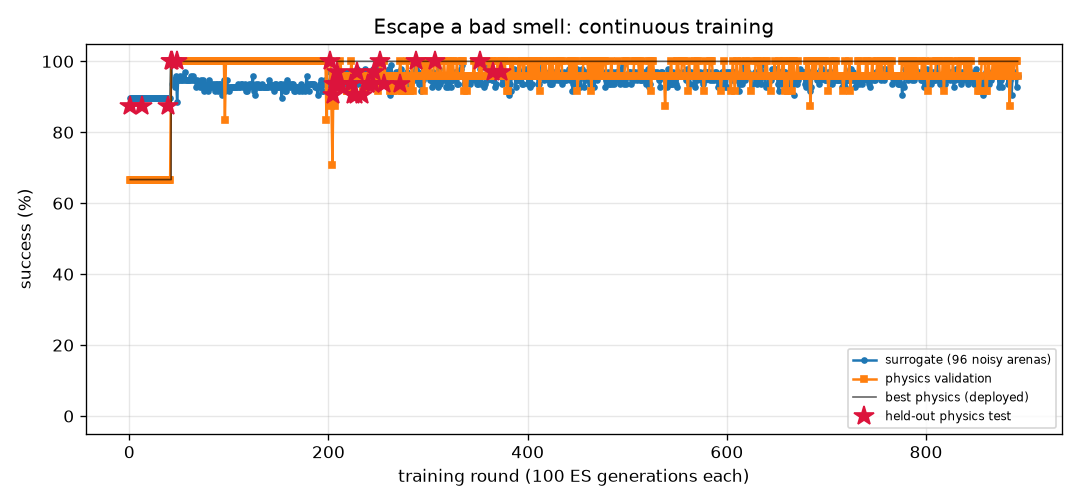
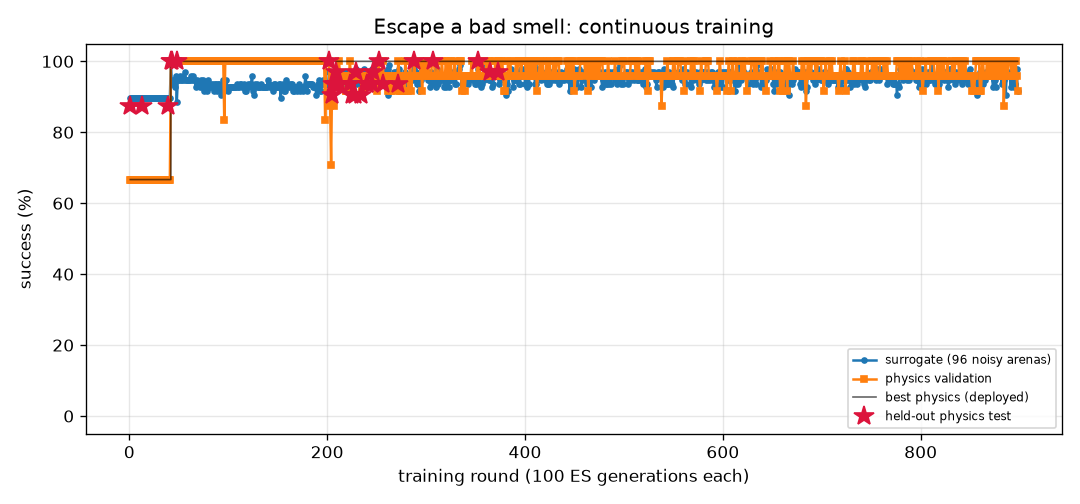
FlyLab: continuous training progress
- walk_forward: optimal, physics val 100% of 24, round 367
- turn: optimal, physics val 100% of 24, round 1013
- goto: optimal, physics val 100% of 24, round 287
- odor_seek: optimal, physics val 100% of 24, round 235
- odor_avoid: optimal, physics val 100% of 24, round 898
- light_seek: optimal, physics val 100% of 24, round 487
- light_avoid: optimal, physics val 100% of 24, round 626

diff --git a/projects/09_flylab/training/odor_avoid/REPORT.md b/projects/09_flylab/training/odor_avoid/REPORT.md
@@ -1,14 +1,14 @@
 # Escape a bad smell (`odor_avoid`) — training report
 
-*Auto-generated by `train_brains.py`, last updated 2026-11-12T00:04:33.*
+*Auto-generated by `train_brains.py`, last updated 2026-11-12T20:07:38.*
 
 ![curve](curve.png)
 
 | | |
 |---|---|
-| rounds | 892 |
-| ES generations | 89200 |
-| physics runs | 18714 |
+| rounds | 898 |
+| ES generations | 89800 |
+| physics runs | 18858 |
 | status | **optimal** |
 | best brain | round 373: physics validation **100%** on 24 arenas, surrogate 97% |
 | held-out physics test | **97%** on 32 unseen arenas (95% CI 84%-99%) (errors: [62.0, 57.4, 62.6, 61.9, 59.0, 61.6, 56.5, 60.7, 31.7, 60.9, 63.1, 57.1, 61.1, 62.1, 61.5, 60.2, 62.2, 55.2, 62.1, 54.2, 61.3, 62.0, 58.0, 61.9, 59.8, 56.5, 56.3, 56.4, 56.3, 57.7, 61.9, 32.4]) |
@@ -17,12 +17,6 @@ Physics error per arena: mm gained away from source (> 6 without first approachi
 
 | round | level | gens | sigma | surrogate | physics val | val errors | test | note |
 |---:|---:|---:|---:|---:|---:|---|---:|---|
-| 853 | 3 | 85300 | 0.026 | 95% | 96% | [59.2, 54.5, 55.0, 56.2, 53.6, 24.9, 59.7, 56.7, 60.0, 9.8, 51.0, 59.5, 47.8, 53.9, 0.7, 36.7, 59.3, 20.2, 48.7, 54.2, 59.7, 41.7, 59.2, 57.6] |  | restart from best |
-| 854 | 3 | 85400 | 0.026 | 96% | 92% | [62.7, 61.0, 56.2, 60.1, 61.9, 42.9, 61.0, 5.1, 61.3, 31.5, 3.5, 61.5, 49.6, 54.4, 36.5, 44.7, 62.2, 36.7, 50.2, 59.1, 62.0, 32.2, 56.5, 57.4] |  |  |
-| 855 | 3 | 85500 | 0.026 | 95% | 96% | [62.7, 59.5, 56.5, 60.1, 60.2, 61.6, 61.6, 35.3, 61.6, 28.1, 29.2, 62.1, 49.1, 54.0, 29.7, 59.8, 61.9, 61.0, 49.7, 57.4, 62.0, 41.0, 59.6, 61.8] |  |  |
-| 856 | 3 | 85600 | 0.027 | 96% | 100% | [63.1, 61.4, 55.9, 59.5, 60.2, 61.6, 61.7, 32.2, 61.3, 59.9, 16.6, 62.3, 50.9, 55.5, 28.9, 61.4, 62.5, 61.3, 50.9, 60.4, 61.9, 43.3, 59.3, 59.4] |  |  |
-| 857 | 3 | 85700 | 0.026 | 91% | 100% | [55.2, 52.8, 58.2, 52.7, 62.9, 62.3, 59.5, 61.8, 58.7, 62.2, 61.9, 61.1, 54.7, 58.0, 51.3, 63.0, 61.8, 62.0, 55.0, 53.2, 61.1, 62.4, 56.3, 60.8] |  | restart from best |
-| 858 | 3 | 85800 | 0.026 | 94% | 100% | [61.0, 56.5, 55.9, 60.9, 37.4, 55.9, 61.5, 23.2, 61.6, 49.3, 39.8, 61.1, 40.5, 53.8, 33.6, 56.3, 61.5, 53.5, 48.6, 58.6, 61.3, 60.5, 60.3, 59.8] |  |  |
 | 859 | 3 | 85900 | 0.028 | 94% | 100% | [60.8, 58.1, 56.0, 58.7, 41.2, 52.2, 61.5, 57.3, 60.5, 57.7, 51.6, 61.3, 9.0, 54.1, 36.3, 61.2, 60.5, 53.0, 49.2, 57.7, 60.3, 37.6, 59.1, 60.6] |  |  |
 | 860 | 3 | 86000 | 0.028 | 97% | 92% | [60.2, 56.2, 52.8, 55.6, 58.8, 58.7, 58.0, 58.3, 58.6, 57.4, 48.6, 59.5, 0.0, 51.4, 33.5, 57.0, 59.1, 58.0, 48.7, 52.5, 58.6, 59.0, 55.4, 59.0] |  |  |
 | 861 | 3 | 86100 | 0.026 | 96% | 92% | [59.2, 52.1, 55.3, 52.0, 58.4, 59.3, 57.3, 53.4, 57.5, 54.6, 46.8, 59.7, 43.1, 53.1, 27.8, 60.2, 59.8, 59.2, 48.1, 51.9, 59.6, 56.6, 52.2, 57.5] |  | restart from best |
@@ -57,3 +51,9 @@ Physics error per arena: mm gained away from source (> 6 without first approachi
 | 890 | 3 | 89000 | 0.026 | 96% | 100% | [63.2, 56.5, 56.4, 61.1, 62.4, 53.2, 60.7, 28.6, 60.9, 34.2, 57.6, 61.9, 50.8, 55.4, 11.7, 62.4, 62.2, 61.6, 54.8, 57.2, 61.9, 45.9, 61.6, 52.8] |  |  |
 | 891 | 3 | 89100 | 0.026 | 93% | 100% | [63.0, 57.9, 56.2, 61.0, 62.5, 62.3, 61.3, 62.2, 61.0, 60.6, 62.1, 62.2, 55.0, 56.7, 51.7, 62.0, 62.7, 61.8, 55.3, 57.3, 62.6, 62.4, 61.4, 62.7] |  |  |
 | 892 | 3 | 89200 | 0.028 | 96% | 96% | [61.9, 60.9, 55.6, 60.9, 61.0, 62.5, 60.7, 61.8, 61.6, 62.3, 62.0, 62.1, 52.3, 55.8, 43.2, 62.3, 61.6, 62.4, 54.7, 59.2, 61.8, 61.8, 61.1, 61.5] |  |  |
+| 893 | 3 | 89300 | 0.026 | 95% | 96% | [62.5, 57.4, 58.7, 60.9, 62.3, 60.8, 61.5, 21.1, 61.4, 47.7, 61.0, 60.8, 54.4, 58.2, 42.5, 62.2, 61.3, 62.0, 54.5, 57.0, 60.6, 51.1, 59.7, 41.7] |  | restart from best |
+| 894 | 3 | 89400 | 0.026 | 93% | 100% | [62.2, 59.2, 56.2, 61.0, 62.3, 60.9, 60.6, 61.1, 61.4, 60.7, 62.0, 61.7, 55.1, 56.2, 51.7, 61.9, 62.0, 61.4, 52.6, 57.2, 61.9, 62.0, 59.4, 61.5] |  |  |
+| 895 | 3 | 89500 | 0.028 | 94% | 96% | [61.8, 56.5, 56.5, 56.5, 59.9, 59.1, 61.0, 34.6, 61.7, 58.2, 58.3, 60.9, 51.4, 55.4, 39.8, 59.8, 61.4, 57.2, 54.4, 58.8, 61.3, 54.9, 59.3, 59.9] |  |  |
+| 896 | 3 | 89600 | 0.028 | 96% | 100% | [60.9, 60.2, 56.0, 56.8, 61.7, 61.3, 60.6, 38.4, 61.5, 47.7, 59.6, 61.7, 54.3, 56.3, 43.2, 60.0, 61.7, 58.9, 54.7, 58.4, 61.4, 59.6, 59.2, 59.3] |  |  |
+| 897 | 3 | 89700 | 0.026 | 98% | 96% | [61.2, 59.0, 56.4, 60.5, 61.1, 62.1, 62.0, 59.5, 61.4, 61.7, 61.7, 61.8, 54.6, 55.9, 43.8, 61.0, 62.0, 61.8, 54.9, 56.8, 61.6, 61.7, 59.1, 61.7] |  | restart from best |
+| 898 | 3 | 89800 | 0.026 | 92% | 92% | [61.6, 56.7, 56.3, 56.5, 60.7, 39.8, 61.9, 1.4, 61.8, 23.5, 58.4, 61.2, 51.7, 55.5, 36.4, 60.8, 61.5, 60.4, 54.8, 56.0, 61.6, 23.4, 56.8, 14.6] |  |  |

diff --git a/projects/09_flylab/training/light_avoid/REPORT.md b/projects/09_flylab/training/light_avoid/REPORT.md
@@ -1,14 +1,14 @@
 # Hide from light (`light_avoid`) — training report
 
-*Auto-generated by `train_brains.py`, last updated 2026-11-12T00:42:23.*
+*Auto-generated by `train_brains.py`, last updated 2026-11-12T20:08:02.*
 
 ![curve](curve.png)
 
 | | |
 |---|---|
-| rounds | 620 |
-| ES generations | 62000 |
-| physics runs | 15152 |
+| rounds | 626 |
+| ES generations | 62600 |
+| physics runs | 15296 |
 | status | **optimal** |
 | best brain | round 159: physics validation **100%** on 24 arenas, surrogate 100% |
 | held-out physics test | **100%** on 32 unseen arenas (95% CI 89%-100%) (errors: [14.4, 56.1, 58.0, 57.9, 57.5, 14.0, 14.4, 56.6, 56.8, 13.3, 14.1, 56.6, 57.6, 13.1, 57.3, 55.9, 57.2, 55.0, 55.2, 53.9, 55.2, 12.4, 53.8, 53.7, 14.1, 13.7, 55.0, 57.8, 56.2, 13.1, 52.8, 56.5]) |
@@ -17,12 +17,6 @@ Physics error per arena: mm gained away from source (> 6 without first approachi
 
 | round | level | gens | sigma | surrogate | physics val | val errors | test | note |
 |---:|---:|---:|---:|---:|---:|---|---:|---|
-| 581 | 3 | 58100 | 0.025 | 97% | 100% | [34.9, 40.9, 40.7, 37.3, 43.3, 39.6, 37.4, 14.5, 38.8, 13.4, 42.2, 43.8, 14.4, 42.4, 40.9, 8.8, 14.2, 42.5, 41.7, 14.4, 8.9, 42.5, 36.4, 41.9] |  |  |
-| 582 | 3 | 58200 | 0.026 | 94% | 96% | [6.2, 52.1, 51.8, 7.3, 51.7, 4.3, 50.3, 14.5, 51.0, 13.3, 49.5, 51.5, 14.4, 51.0, 52.0, 9.0, 14.2, 52.0, 52.4, 14.4, 8.7, 51.3, 50.0, 51.0] |  |  |
-| 583 | 3 | 58300 | 0.028 | 93% | 96% | [6.3, 55.7, 55.8, 7.3, 52.4, 4.6, 55.3, 14.5, 36.8, 13.3, 48.1, 52.1, 14.4, 50.2, 55.7, 9.0, 14.2, 53.4, 55.9, 14.4, 8.7, 49.9, 54.7, 51.0] |  | restart from best |
-| 584 | 3 | 58400 | 0.024 | 100% | 100% | [46.5, 50.4, 50.0, 47.6, 51.1, 47.6, 48.5, 14.5, 24.7, 13.3, 49.2, 50.8, 14.4, 49.5, 50.2, 50.0, 14.2, 51.3, 50.8, 14.4, 47.4, 49.8, 48.4, 50.5] |  |  |
-| 585 | 3 | 58500 | 0.024 | 100% | 100% | [56.0, 59.0, 59.0, 56.3, 56.6, 56.3, 58.4, 14.5, 53.6, 13.3, 57.6, 56.4, 14.4, 54.9, 59.0, 55.6, 14.2, 57.5, 59.2, 14.4, 54.4, 57.7, 58.1, 55.6] |  |  |
-| 586 | 3 | 58600 | 0.024 | 100% | 100% | [58.3, 61.2, 61.1, 58.6, 59.4, 59.0, 60.2, 14.5, 52.6, 13.1, 57.7, 59.7, 14.4, 57.4, 61.1, 57.7, 14.2, 60.6, 61.4, 14.4, 57.0, 56.3, 60.2, 58.5] |  |  |
 | 587 | 3 | 58700 | 0.024 | 100% | 100% | [57.3, 60.0, 60.0, 56.9, 57.5, 57.3, 59.4, 14.5, 53.7, 13.4, 58.0, 57.3, 14.4, 55.2, 60.1, 56.7, 14.2, 58.4, 60.1, 14.4, 55.9, 56.0, 59.0, 56.4] |  | restart from best |
 | 588 | 3 | 58800 | 0.024 | 100% | 100% | [52.7, 57.4, 56.9, 53.7, 57.9, 53.6, 55.0, 14.5, 54.2, 13.1, 56.7, 57.8, 14.4, 55.0, 57.2, 56.1, 14.2, 58.2, 57.5, 14.4, 54.0, 56.7, 55.0, 57.3] |  |  |
 | 589 | 3 | 58900 | 0.024 | 100% | 100% | [43.5, 45.1, 44.7, 45.5, 45.2, 43.8, 41.8, 14.5, 34.6, 13.5, 44.3, 45.5, 14.4, 46.3, 44.6, 43.7, 14.2, 45.6, 44.7, 14.4, 44.7, 44.4, 43.1, 45.5] |  |  |
@@ -57,3 +51,9 @@ Physics error per arena: mm gained away from source (> 6 without first approachi
 | 618 | 3 | 61800 | 0.024 | 100% | 100% | [35.7, 35.6, 35.6, 36.1, 37.4, 36.4, 30.9, 14.5, 34.5, 13.5, 37.3, 36.9, 14.4, 37.3, 34.7, 36.4, 14.2, 36.8, 36.3, 14.4, 35.8, 36.7, 32.8, 37.2] |  |  |
 | 619 | 3 | 61900 | 0.024 | 100% | 100% | [50.8, 51.1, 51.1, 51.2, 46.4, 49.9, 51.6, 14.5, 41.3, 13.4, 49.2, 46.3, 14.4, 46.5, 51.1, 50.9, 14.2, 47.4, 50.7, 14.4, 50.6, 50.3, 51.8, 44.7] |  | restart from best |
 | 620 | 3 | 62000 | 0.024 | 100% | 100% | [43.2, 43.2, 42.4, 43.2, 45.4, 43.8, 40.9, 14.5, 42.0, 12.9, 45.6, 45.2, 14.4, 45.9, 42.9, 44.0, 14.2, 45.1, 43.3, 14.4, 41.8, 45.9, 42.0, 45.4] |  |  |
+| 621 | 3 | 62100 | 0.024 | 100% | 100% | [38.0, 37.4, 37.2, 38.5, 40.0, 38.2, 35.1, 14.5, 37.4, 13.3, 40.1, 40.1, 14.4, 40.5, 36.9, 38.4, 14.2, 39.9, 37.8, 14.4, 38.3, 40.0, 34.4, 39.9] |  |  |
+| 622 | 3 | 62200 | 0.024 | 100% | 100% | [42.7, 45.0, 43.8, 44.4, 47.8, 44.3, 42.5, 14.5, 40.3, 13.2, 44.0, 48.3, 14.4, 45.0, 45.1, 43.3, 14.2, 47.8, 45.5, 14.4, 45.4, 44.0, 42.2, 48.6] |  |  |
+| 623 | 3 | 62300 | 0.024 | 100% | 100% | [57.4, 61.2, 61.0, 57.9, 60.4, 58.6, 59.8, 14.5, 56.8, 13.2, 60.0, 60.2, 14.4, 60.0, 61.2, 57.0, 14.2, 60.9, 61.5, 14.4, 58.8, 60.2, 59.7, 59.5] |  | restart from best |
+| 624 | 3 | 62400 | 0.024 | 100% | 100% | [44.1, 45.8, 45.3, 46.1, 48.4, 44.4, 43.5, 14.5, 43.1, 13.4, 48.7, 48.7, 14.4, 48.8, 45.4, 44.5, 14.2, 48.4, 45.3, 14.4, 44.4, 49.0, 44.1, 48.7] |  |  |
+| 625 | 3 | 62500 | 0.024 | 98% | 100% | [41.9, 42.4, 42.9, 43.5, 38.0, 43.2, 43.6, 14.5, 12.9, 13.5, 8.5, 37.9, 14.4, 37.9, 43.3, 42.8, 14.2, 39.2, 41.8, 14.4, 40.9, 9.0, 44.4, 36.5] |  |  |
+| 626 | 3 | 62600 | 0.025 | 98% | 96% | [49.1, 52.7, 52.4, 49.9, 52.5, 49.1, 51.0, 14.5, 13.0, 13.4, 10.2, 52.4, 14.4, 7.9, 52.6, 48.9, 14.2, 52.9, 53.1, 14.4, 47.4, 11.3, 50.5, 51.8] |  |  |

diff --git a/projects/09_flylab/training/TRAINING.md b/projects/09_flylab/training/TRAINING.md
@@ -1,6 +1,6 @@
 # FlyLab brains — continuous training log
 
-*Auto-generated by `train_brains.py`, last updated 2026-11-12T19:17:05.*
+*Auto-generated by `train_brains.py`, last updated 2026-11-12T20:08:02.*
 
 Every skill has its own brain and its own training process: surrogate ES rounds, physics validation in MuJoCo, keep-the-best selection, and a held-out physics test that is never used for selection. See each skill's report for its full round-by-round history. Mastery is progressive: passing a level (100% physics validation, >=95% surrogate) doubles the validation and test arena sets; a brain is **optimal** once it holds up at level 3 (>=95% of 24 validation arenas) AND scores >=90% on the 32 held-out test arenas. Test columns show 95% Wilson confidence intervals.
 
@@ -10,6 +10,6 @@ Every skill has its own brain and its own training process: surrogate ES rounds,
 | [Turn in place](turn/REPORT.md) | 1013 | 101300 | 24558 | 100% | 100% of 24 | 97% of 32 (CI 84-99%) | **optimal** |
 | [Go to a location](goto/REPORT.md) | 287 | 28700 | 6838 | 100% | 100% of 24 | 100% of 32 (CI 89-100%) | **optimal** |
 | [Find food by smell](odor_seek/REPORT.md) | 235 | 23500 | 5070 | 100% | 100% of 24 | 100% of 32 (CI 89-100%) | **optimal** |
-| [Escape a bad smell](odor_avoid/REPORT.md) | 892 | 89200 | 18714 | 97% | 100% of 24 | 97% of 32 (CI 84-99%) | **optimal** |
+| [Escape a bad smell](odor_avoid/REPORT.md) | 898 | 89800 | 18858 | 97% | 100% of 24 | 97% of 32 (CI 84-99%) | **optimal** |
 | [Walk toward light](light_seek/REPORT.md) | 487 | 48700 | 8568 | 100% | 100% of 24 | 100% of 32 (CI 89-100%) | **optimal** |
-| [Hide from light](light_avoid/REPORT.md) | 620 | 62000 | 15152 | 100% | 100% of 24 | 100% of 32 (CI 89-100%) | **optimal** |
+| [Hide from light](light_avoid/REPORT.md) | 626 | 62600 | 15296 | 100% | 100% of 24 | 100% of 32 (CI 89-100%) | **optimal** |
